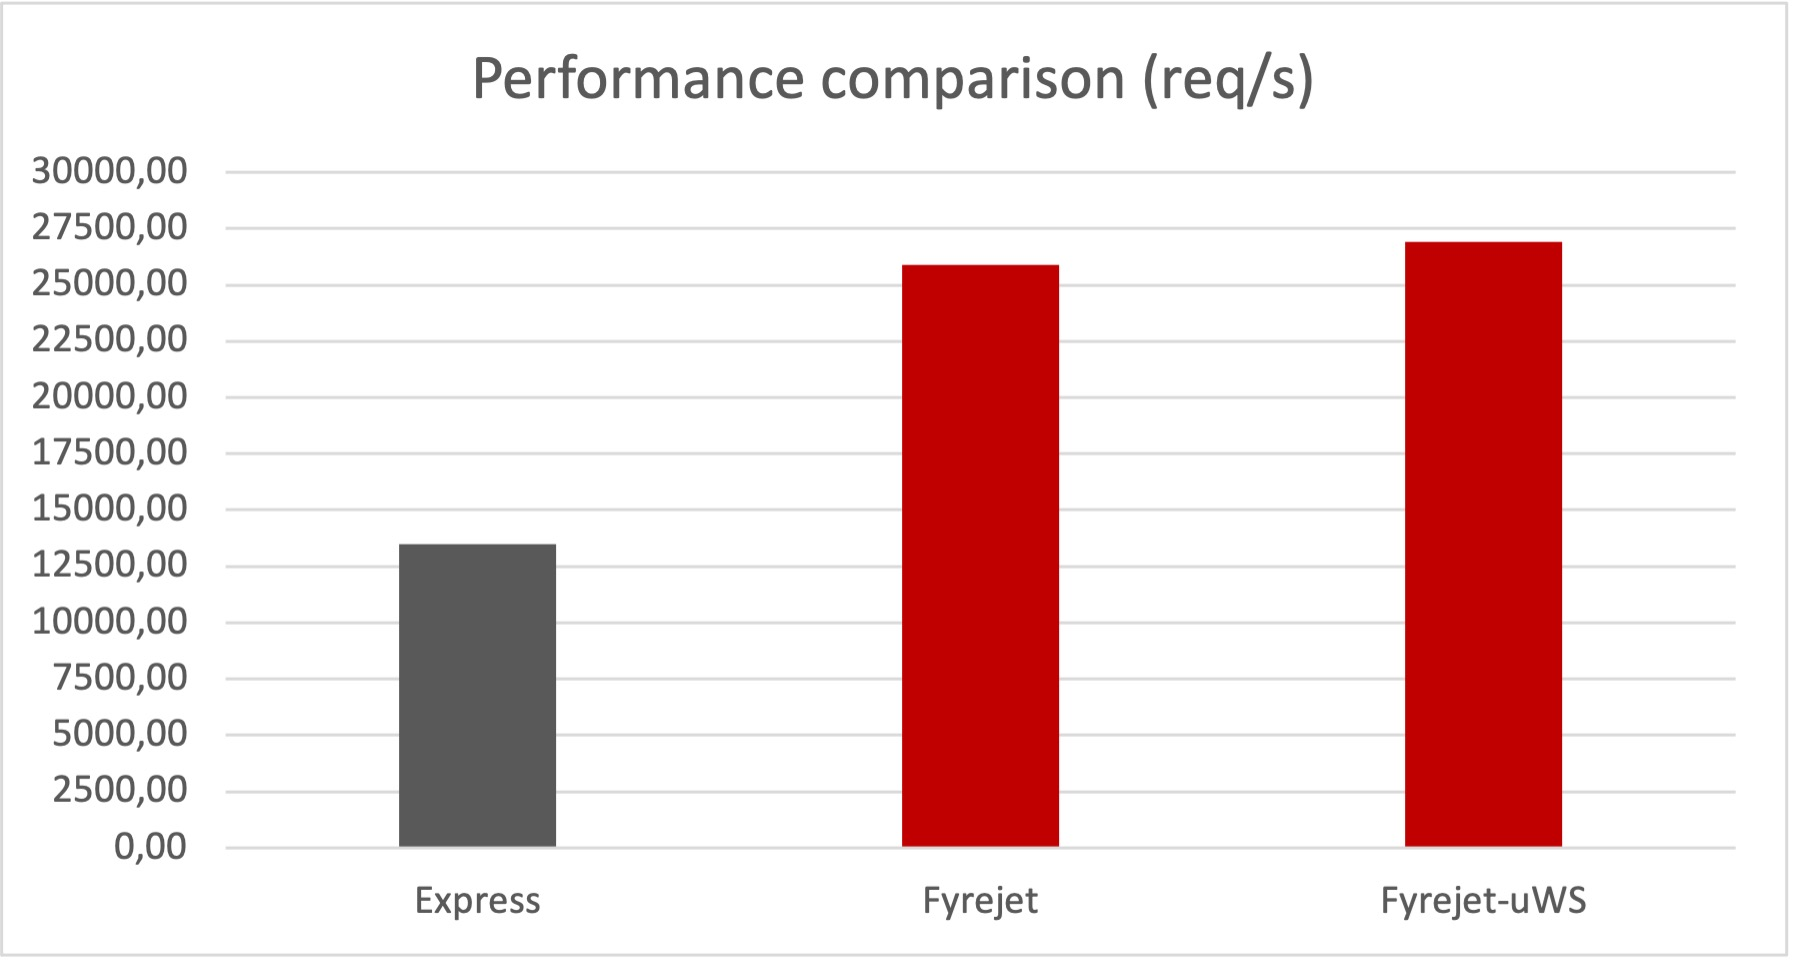
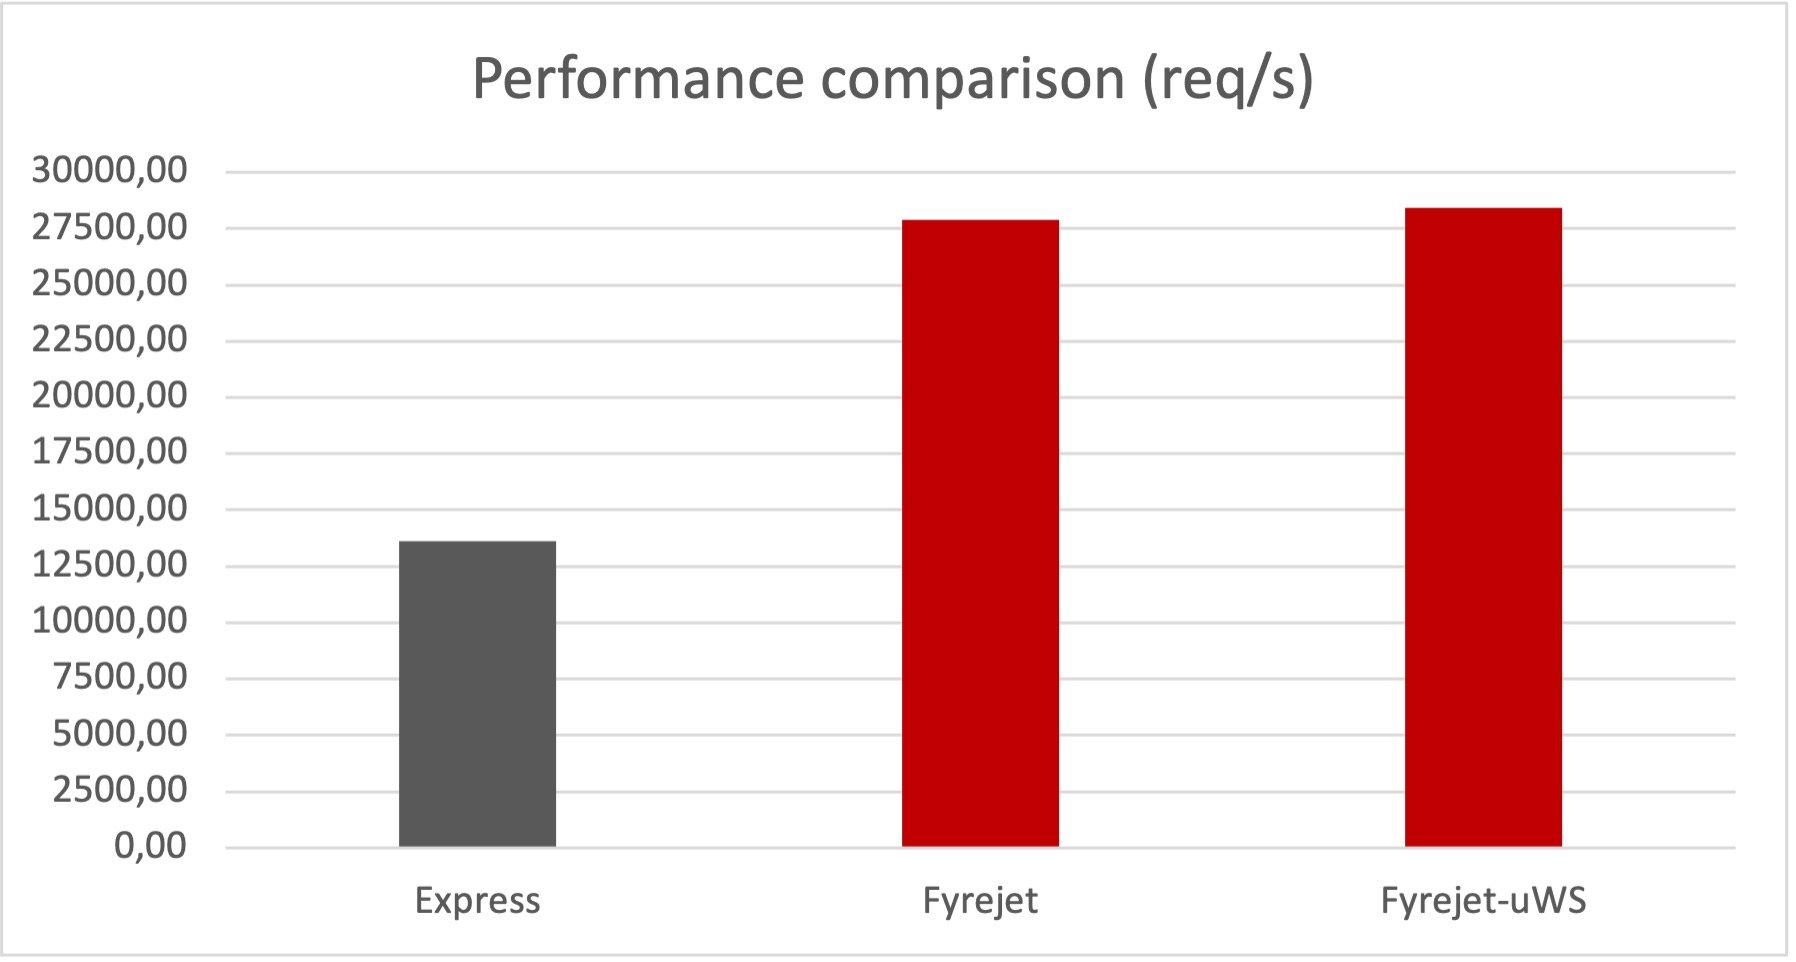
Update docs

diff --git a/README.md b/README.md
@@ -260,7 +260,7 @@ In addition to Express's ability to redefine ETag function or disable it altoget
 
 ```js
 app.get('/hi', (req, res, next) => {
-  return res.send('There won't be ETag')
+  return res.send('There won\'t be ETag')
 }, 'noEtag')
 ```
 
@@ -342,6 +342,8 @@ Results:
 
 The CPU package temperature was ensured to be 45-47 degrees Celsium at the start of each round.
 
+Take note that Fyrejet with `uWebSockets.js` should perform much better on Linux (I just don't have time to test, however [this benchmark](https://github.com/the-benchmarker/web-frameworks) supports the claims). 
+
 ### Clustering
 
 Be aware that `uWebSockets.js` generally doesn't perform on MacOS, FreeBSD and Windows as well as on Linux. It also does not clusterize on non-Linux platforms, [as it depends on certain kernel features](https://github.com/uNetworking/uWebSockets.js/issues/214#issuecomment-547589050). This only affects `uWebSockets.js` (and, by extenstion, `fyrejet.uwsCompat`). As a workaround, consider running your app as separate apps listening on different ports, if using uWebSockets.js, and proxying behind nginx.
@@ -366,10 +368,10 @@ wrk -t8 -c64 -d5s 'http://localhost:4004/hi'
 
 | № of workers | Express, req/s | Fyrejet, req/s | % difference in favor of Fyrejet |
 | ------------ | -------------- | -------------- | -------------------------------- |
-| 1            | 13539.62       | 25287.58       | 86.7                             |
-| 2            | 23379.74       | 45895.10       | 96.3                             |
-| 3            | 32139.68       | 62850.37       | 95.5                             |
-| 4            | 42702.51       | 75168.72       | 76.0                             |
+| 1            | 13082.17       | 27266.82       | 108.4                            |
+| 2            | 23491.51       | 47083.39       | 100.4                            |
+| 3            | 33555.15       | 67366.15       | 100.7                            |
+| 4            | 42141.53       | 80632.00       | 91.3                             |
 
 
 
